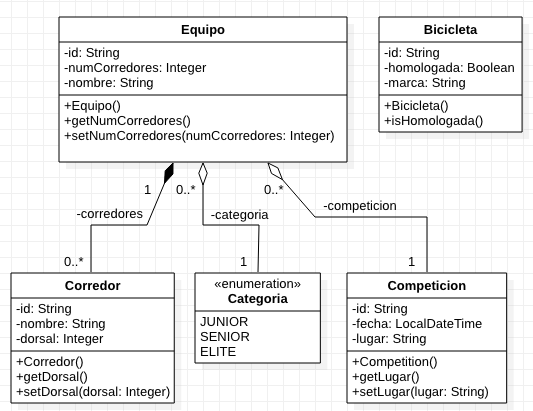
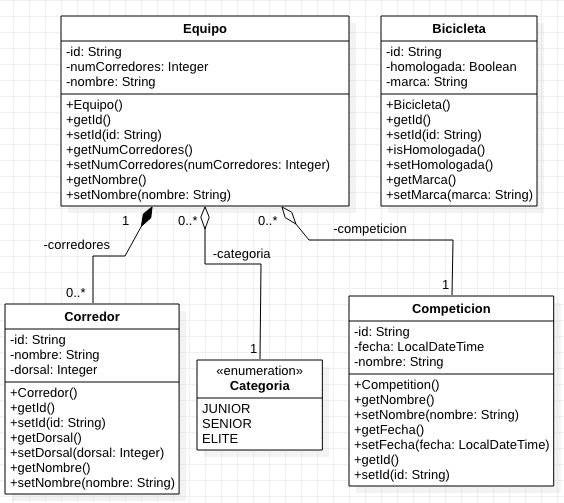
[develop] Refactor del proyecto

Changed region(s): [[0.0, 0.0292, 0.9906, 0.9927]]

diff --git a/README.md b/README.md
@@ -43,8 +43,8 @@
 ## API
 ### POST /competiciones
 #### Parámetros del cuerpo
-- `fecha`: LocalDatetime (**requerido**)
-- `lugar`: String (**requerido**)
+- `nombre`: String (**requerido**)
+- `fecha`: LocalDatetime
 #### Respuesta
 - 200 OK 
   - `id`: String
@@ -53,12 +53,12 @@
 ### GET /competiciones
 #### Respuesta
 - 200 OK 
-  - `[ {id:String,fecha:LocalDateTime,lugar:String} ]`
+  - `[ {id:String,nombre:String} ]`
 ---
 ### PUT /competiciones/{id}
 #### Parámetros del cuerpo
-- `fecha`: LocalDatetime (**requerido**)
-- `lugar`: String (**requerido**)
+- `nombre`: String (**requerido**)
+- `fecha`: LocalDatetime
 #### Respuesta
 - 200 OK 
 - 403 BAD_REQUEST
